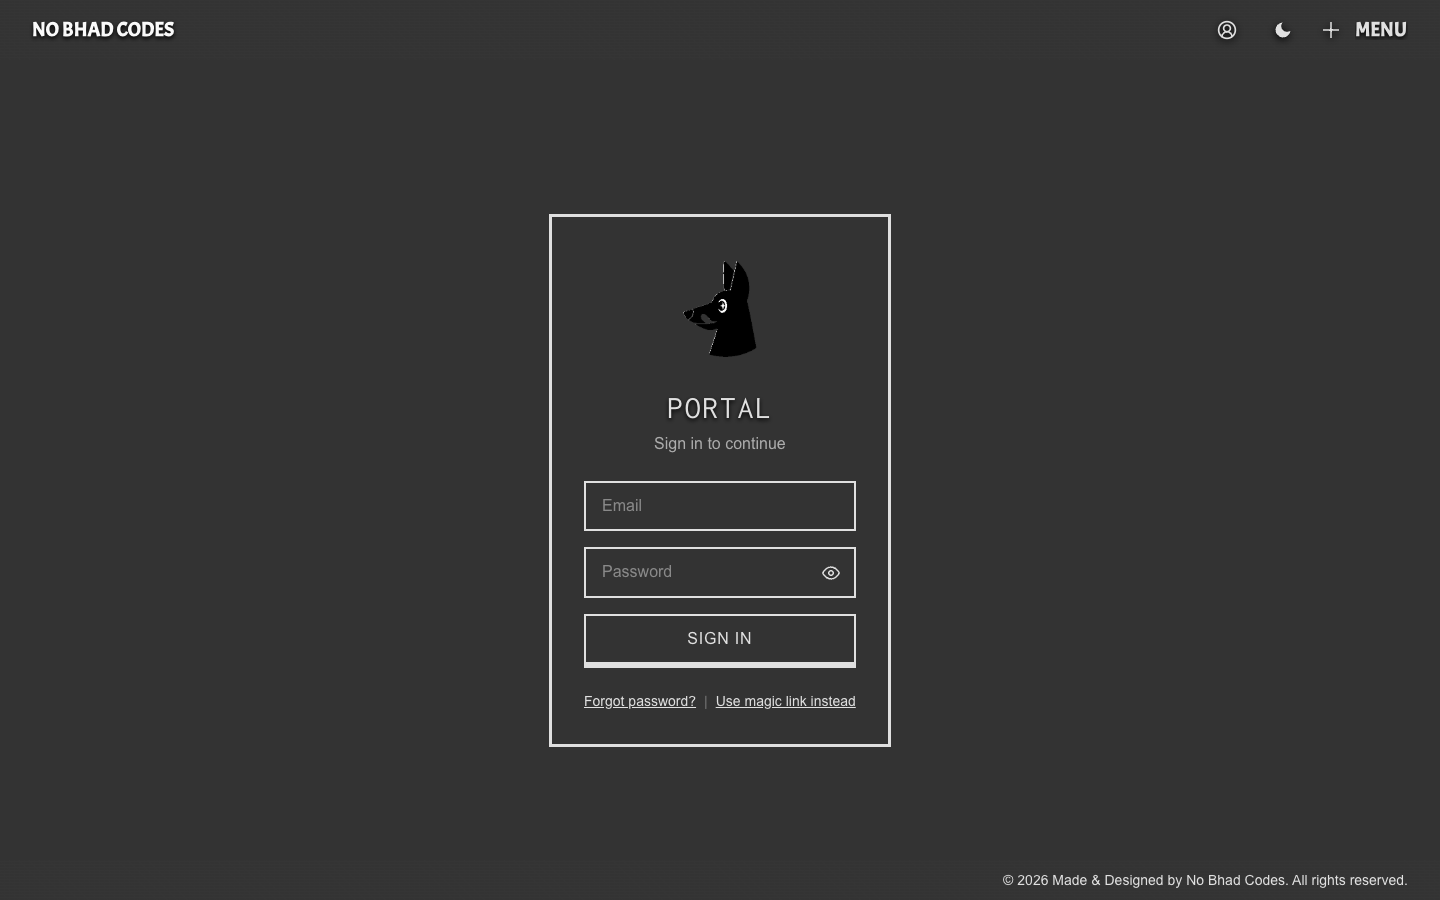
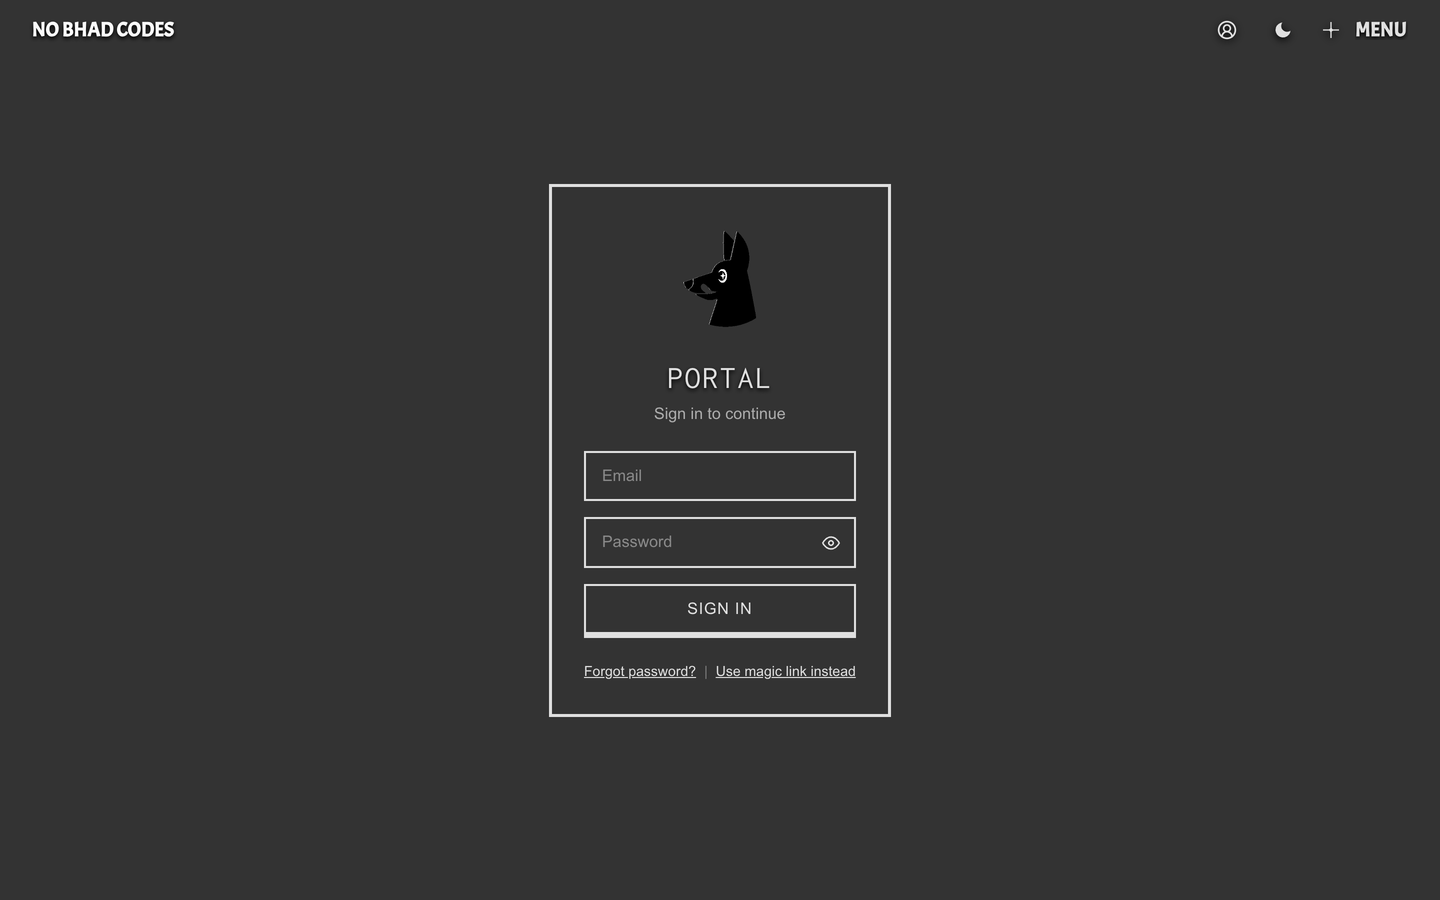
fix: stop orphaned music, lock the intro, move ↑↓ into scrolling pages
Music kept playing after leaving the projects tile. playMusic could run
twice at once — both calls passed the same-URL guard before either
finished loading, both created a source, and musicSource ended up holding
only the second. The first looped on with nothing able to stop it. Traced
it by logging every AudioBufferSourceNode start and stop: two starts at
the same millisecond, one stop. A token per call now invalidates the
older one, any source still held is stopped before being replaced, and
leaving the tile refuses new playback outright rather than only stopping
what is already running — the tune-in is a timeline that can call for
music several beats after the channel was picked.

The intro can no longer be scrolled out from under you. introComplete
turns true at ~2.2s while the paw is still retracting and the overlay
stays up until ~4.5s, so the wheel and the arrow keys were live for the
last two seconds of it. They now wait for the whole thing.

↑ and ↓ move into a page that scrolls instead of hanging over it. The
compass is fixed, so on a long case study ↓ sat on top of whatever text
was at the bottom of the window and ↑ hung there the whole way down.
Inside the scroller they behave like the page: ↑ at the top, scrolling
away as you leave it; ↓ after the content.

↑ also sat hard against the top edge while the other three sat a clamp in
from theirs — the compass zeroed its top padding back when it started
[…]

Changed region(s): [[0.375, 0.4978, 0.625, 0.84], [0.375, 0.1867, 0.625, 0.4978], [0.6875, 0.9644, 0.9688, 0.9956]]

diff --git a/src/modules/audio/tv-sfx.ts b/src/modules/audio/tv-sfx.ts
@@ -143,6 +143,17 @@ class TvSfx {
   // Whether the guide hiss is wanted right now — checked across the awaits in
   // playGuideStatic so a channel starting mid-load cancels it.
   private guideWanted = false;
+  // Set while the TV is off screen. The tune-in is a GSAP timeline that
+  // starts music several beats after the channel is picked, so navigating
+  // away mid-sequence could hand a play call to a set nobody is looking at.
+  // A flag closes every such path at once, including any added later.
+  private suspended = false;
+  // Bumped on every playMusic call. The URL alone cannot tell two concurrent
+  // starts apart: both check musicCurrentUrl before either has finished
+  // loading, both pass, and both create a source — after which musicSource
+  // holds only the second and the first loops on with nothing able to stop
+  // it. That was the music still playing after leaving the projects tile.
+  private musicToken = 0;
   private musicCurrentUrl: string | null = null;
   // Decoded buffers per-URL — first play of a track pays fetch+decode,
   // subsequent plays of the same track are instant.
@@ -179,6 +190,21 @@ class TvSfx {
         .catch(() => null);
     this.clickBytesPromise = fetchBytes(CLICK_SAMPLE_URL);
     this.staticBytesPromise = fetchBytes(STATIC_SAMPLE_URL);
+  }
+
+  /**
+   * Silence the set and refuse anything new until it is on screen again.
+   * Called when the projects tile is left.
+   */
+  suspendPlayback(): void {
+    this.suspended = true;
+    this.stopMusic();
+    this.stopGuideStatic();
+  }
+
+  /** The tile is back — allow playback again. */
+  resumePlayback(): void {
+    this.suspended = false;
   }
 
   /** Current volume level (0..1). */
@@ -313,7 +339,8 @@ class TvSfx {
       (no separate volume slider needed). Lazy-loads + caches each
       track on first play. */
   async playMusic(url: string): Promise<void> {
-    if (this.musicCurrentUrl === url) return;
+    if (this.suspended || this.musicCurrentUrl === url) return;
+    const token = ++this.musicToken;
 
     // Mark intent immediately so a re-entrant playMusic() (different
     // URL) during the await chain knows we're switching, and so a
@@ -324,13 +351,13 @@ class TvSfx {
 
     const ctx = await this.ensureContext();
     if (!ctx || !this.masterGain) return;
-    // Bail if the user already tuned away (or hit POWER) during the
-    // ensureContext await.
-    if (this.musicCurrentUrl !== url) return;
+    // Bail if the user already tuned away, hit POWER, or left the tile
+    // during the ensureContext await.
+    if (this.suspended || token !== this.musicToken || this.musicCurrentUrl !== url) return;
 
     const buffer = await this.loadMusicBuffer(ctx, url);
     if (!buffer) return;
-    if (this.musicCurrentUrl !== url) return;
+    if (this.suspended || token !== this.musicToken || this.musicCurrentUrl !== url) return;
 
     const gain = ctx.createGain();
     const now = ctx.currentTime;
@@ -344,6 +371,15 @@ class TvSfx {
     source.connect(gain);
     source.start(now);
 
+    // Anything still held here predates this call; stop it rather than
+    // dropping the reference and leaving it playing.
+    if (this.musicSource) {
+      try {
+        this.musicSource.stop();
+      } catch {
+        /* already stopped */
+      }
+    }
     this.musicSource = source;
     this.musicGain = gain;
   }
@@ -356,7 +392,7 @@ class TvSfx {
    * No-op if it is already running.
    */
   async playGuideStatic(): Promise<void> {
-    if (this.guideSource || this.guideWanted) return;
+    if (this.suspended || this.guideSource || this.guideWanted) return;
     // Intent is recorded before the awaits, and checked after each one.
     // Without it, tuning into a channel while the context or the buffer was
     // still loading left stopGuideStatic() with nothing to stop, and the
@@ -365,10 +401,10 @@ class TvSfx {
     this.guideWanted = true;
 
     const ctx = await this.ensureContext();
-    if (!ctx || !this.masterGain || !this.guideWanted) return;
+    if (!ctx || !this.masterGain || !this.guideWanted || this.suspended) return;
 
     const buffer = await this.loadStaticBuffer(ctx);
-    if (!buffer || !this.guideWanted || this.guideSource) return;
+    if (!buffer || !this.guideWanted || this.suspended || this.guideSource) return;
 
     const gain = ctx.createGain();
     const now = ctx.currentTime;
@@ -409,6 +445,7 @@ class TvSfx {
       is playing. Safe to call from POWER off, channel-back-to-guide,
       or anywhere else the music should end. */
   stopMusic(): void {
+    this.musicToken++;
     const src = this.musicSource;
     const gain = this.musicGain;
     this.musicSource = null;

diff --git a/src/modules/animation/page-transition.ts b/src/modules/animation/page-transition.ts
@@ -498,6 +498,22 @@ export class PageTransitionModule extends BaseModule {
    * Off-map pages (project-detail, portal-login, admin-login) use the blur-swap
    * transition.
    */
+  /**
+   * Whether the intro is REALLY over, as opposed to `introComplete`, which
+   * flips at ~2.2s while the paw is still retracting and the overlay is still
+   * up until ~4.5s. Input has to stay locked for the whole of it — the card
+   * being handed over is the one moment on the site that should not be
+   * scrollable out from under the viewer.
+   */
+  private introSettled(): boolean {
+    if (!this.introComplete) return false;
+    if (!document.documentElement.classList.contains('intro-finished')) return false;
+    const overlay = document.querySelector('#intro-morph-overlay');
+    if (!overlay) return true;
+    const cs = getComputedStyle(overlay);
+    return cs.visibility === 'hidden' || cs.opacity === '0' || cs.display === 'none';
+  }
+
   private isMapPage(pageId: string): boolean {
     return pageId in MAP_TILES;
   }
@@ -739,10 +755,33 @@ export class PageTransitionModule extends BaseModule {
       });
     }
 
-    compass.querySelectorAll<HTMLElement>('.map-compass__cue').forEach((cue) => {
+    const cues = document.querySelectorAll<HTMLElement>('.map-compass__cue');
+    cues.forEach((cue) => {
       const dir = cue.dataset.cue as Direction | undefined;
       cue.dataset.can = dir && navigable.has(dir) ? 'true' : 'false';
     });
+
+    // On a page that scrolls, the vertical cues belong IN the page rather than
+    // pinned to the window. The compass is fixed, so on a long case study ↓
+    // sat on top of whatever text happened to be at the bottom of the viewport
+    // and ↑ hung there the whole way down. Moved into the scroller they behave
+    // like the page: ↑ sits at the top and scrolls away as you leave it, ↓
+    // waits at the end of the content and arrives when you reach it.
+    const tile = this.pages.get(this.currentPageId)?.element;
+    if (tile) {
+      const scrolls = tile.scrollHeight > tile.clientHeight + 4;
+      for (const dir of ['up', 'down'] as const) {
+        const cue = document.querySelector<HTMLElement>(`.map-compass__cue--${dir}`);
+        if (!cue) continue;
+        if (scrolls && cue.parentElement !== tile) {
+          tile.appendChild(cue);
+          cue.classList.add('map-compass__cue--in-content');
+        } else if (!scrolls && cue.parentElement !== compass) {
+          compass.appendChild(cue);
+          cue.classList.remove('map-compass__cue--in-content');
+        }
+      }
+    }
   }
 
   /**
@@ -1443,7 +1482,7 @@ export class PageTransitionModule extends BaseModule {
     // During the intro animation, swallow ALL wheel events so the browser
     // can't scroll the page horizontally or vertically before the user is
     // released into the spatial map.
-    if (!this.introComplete) {
+    if (!this.introSettled()) {
       event.preventDefault();
       return;
     }
@@ -1623,7 +1662,7 @@ export class PageTransitionModule extends BaseModule {
     // page navigation. Mirrors the wheel handler's behavior.
 
     if (this.isTransitioning) return;
-    if (!this.introComplete) return;
+    if (!this.introSettled()) return;
     if (!this.isMapPage(this.currentPageId) && this.currentPageId !== 'project-detail') return;
 
     // Enter on the projects tile opens the currently-highlighted TV

diff --git a/src/styles/components/site-map.css b/src/styles/components/site-map.css
@@ -291,9 +291,10 @@ body[data-page="design-system"] main#main-content {
     ". up    ."
     "left .  right"
     ". down  .";
-  /* Top padding zeroed so the up arrow sits flush against the header
-     bottom (the inset already places the compass top at header height). */
-  padding: 0 clamp(0.5rem, 2vw, 1.5rem) clamp(0.5rem, 2vw, 1.5rem);
+  /* Same inset on all four sides. The top was zeroed back when the compass
+     started below the header; it now spans the viewport, so zero put ↑ hard
+     against the edge while ← → ↓ each sat a clamp in from theirs. */
+  padding: clamp(0.5rem, 2vw, 1.5rem);
 }
 
 .map-compass__cue {
@@ -327,7 +328,6 @@ body[data-page="design-system"] main#main-content {
   grid-area: up;
   align-self: start;
   justify-self: center;
-  padding-top: 0;
 }
 .map-compass__cue--down {
   grid-area: down;
@@ -459,4 +459,30 @@ body[data-page="design-system"] main#main-content {
   .map-compass {
     display: none;
   }
+}
+
+/* ↓ moved into a scrolling page's content (see updateCompass). It scrolls
+   with the page and sits after the last of it, rather than hovering over the
+   text at the bottom of the window. */
+.map-compass__cue--in-content {
+  position: absolute;
+  left: 50%;
+  transform: translateX(-50%);
+  z-index: var(--z-index-elevated);
+}
+
+/* ↑ at the head of the content, ↓ at the foot of it. Absolute inside the
+   scroller means both move with the page instead of hovering over it. */
+.map-compass__cue--in-content.map-compass__cue--up {
+  top: var(--space-4);
+  bottom: auto;
+}
+
+.map-compass__cue--in-content.map-compass__cue--down {
+  bottom: var(--space-6);
+  top: auto;
+}
+
+.map-compass__cue--in-content[data-can="true"] {
+  pointer-events: auto;
 }

diff --git a/src/modules/ui/projects.ts b/src/modules/ui/projects.ts
@@ -796,10 +796,12 @@ export class ProjectsModule extends BaseModule {
       const to = detail?.to;
       if (!to) return;
       if (to !== 'projects') {
-        tvSfx.stopMusic();
-        tvSfx.stopGuideStatic();
+        // Not just stop — refuse. A tune-in timeline still running can call
+        // playMusic several beats from now, long after the tile is gone.
+        tvSfx.suspendPlayback();
         return;
       }
+      tvSfx.resumePlayback();
       // Returning to projects — restart music for the tuned channel
       // only if the TV is on AND the user is on a project channel
       // (channel 01 / guide has no track and leaves activeTuneInSlug
